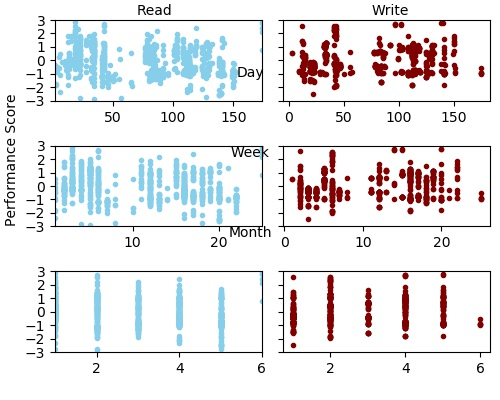
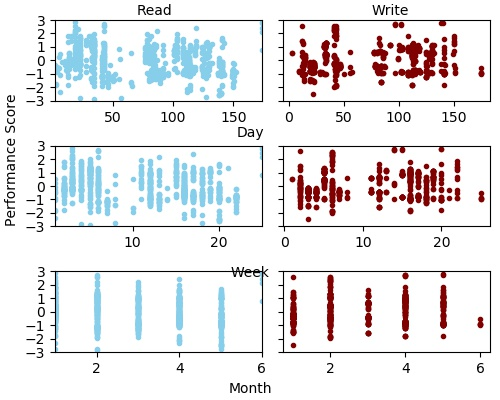
adjusting location of labels

diff --git a/example/simple_user.py b/example/simple_user.py
@@ -234,9 +234,9 @@ for app in top_apps:
         #axes[n][1].set_title(op)
         #axes[n][1].set_xlabel("%s #"%x_axis)
     fig.subplots_adjust(left=0.11, bottom=0.12, right=.98, top=.95, wspace=0.1, hspace=0.55)
-    fig.text(0.5, 0.80, x_axes[0], ha='center', va='bottom')
-    fig.text(0.5, 0.60, x_axes[1], ha='center', va='bottom')
-    fig.text(0.5, 0.40, x_axes[2], ha='center', va='bottom')
+    fig.text(0.5, 0.65, x_axes[0], ha='center', va='bottom')
+    fig.text(0.5, 0.30, x_axes[1], ha='center', va='bottom')
+    fig.text(0.5, 0.01, x_axes[2], ha='center', va='bottom')
     fig.text(0.01, 0.6, 'Performance Score', ha='left', va='center', rotation=90)
     fig.text(0.31, 0.99, 'Read', ha='center', va='top')
     fig.text(0.78, 0.99, 'Write', ha='center', va='top')
